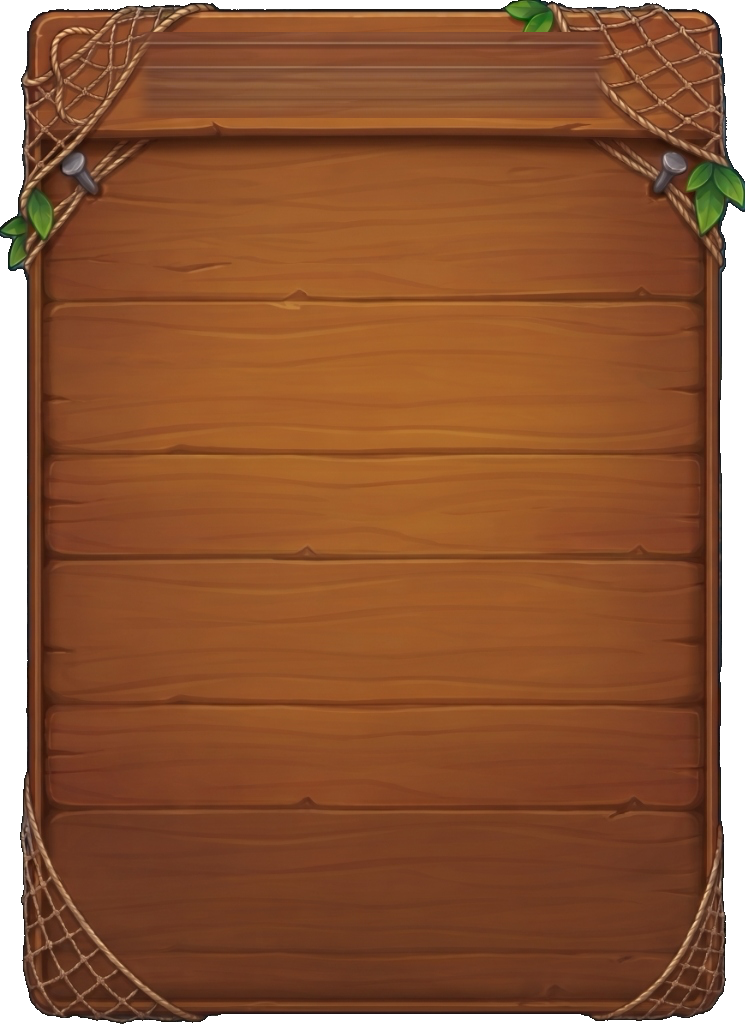
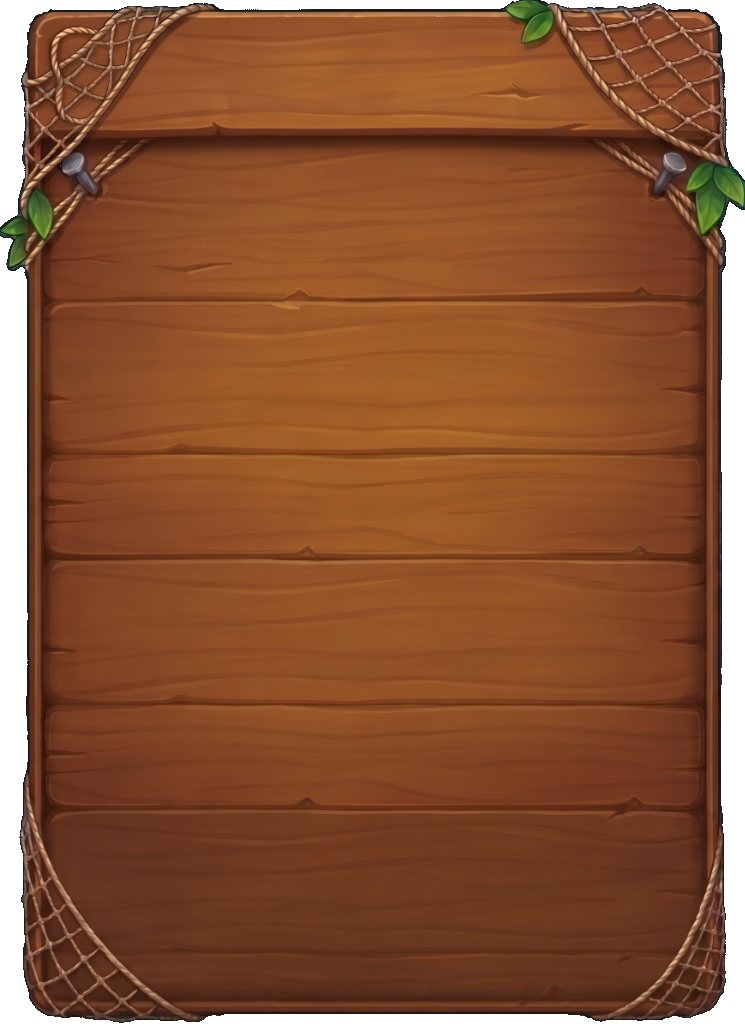
feat(ui): update universal board with 100% clean original wood background (v1.5.9.52)

diff --git a/src/version.ts b/src/version.ts
@@ -1,1 +1,1 @@
-export const APP_VERSION = 'v1.5.9.51';
+export const APP_VERSION = 'v1.5.9.52';
